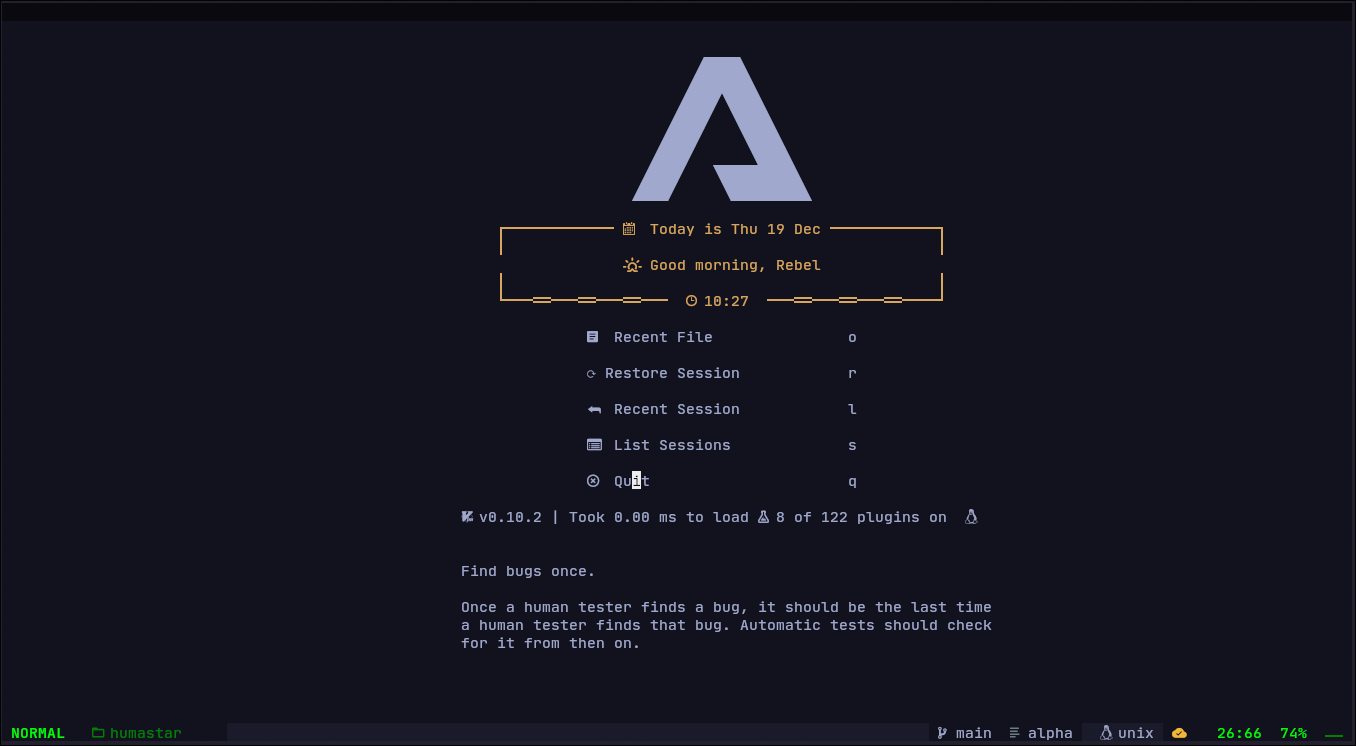
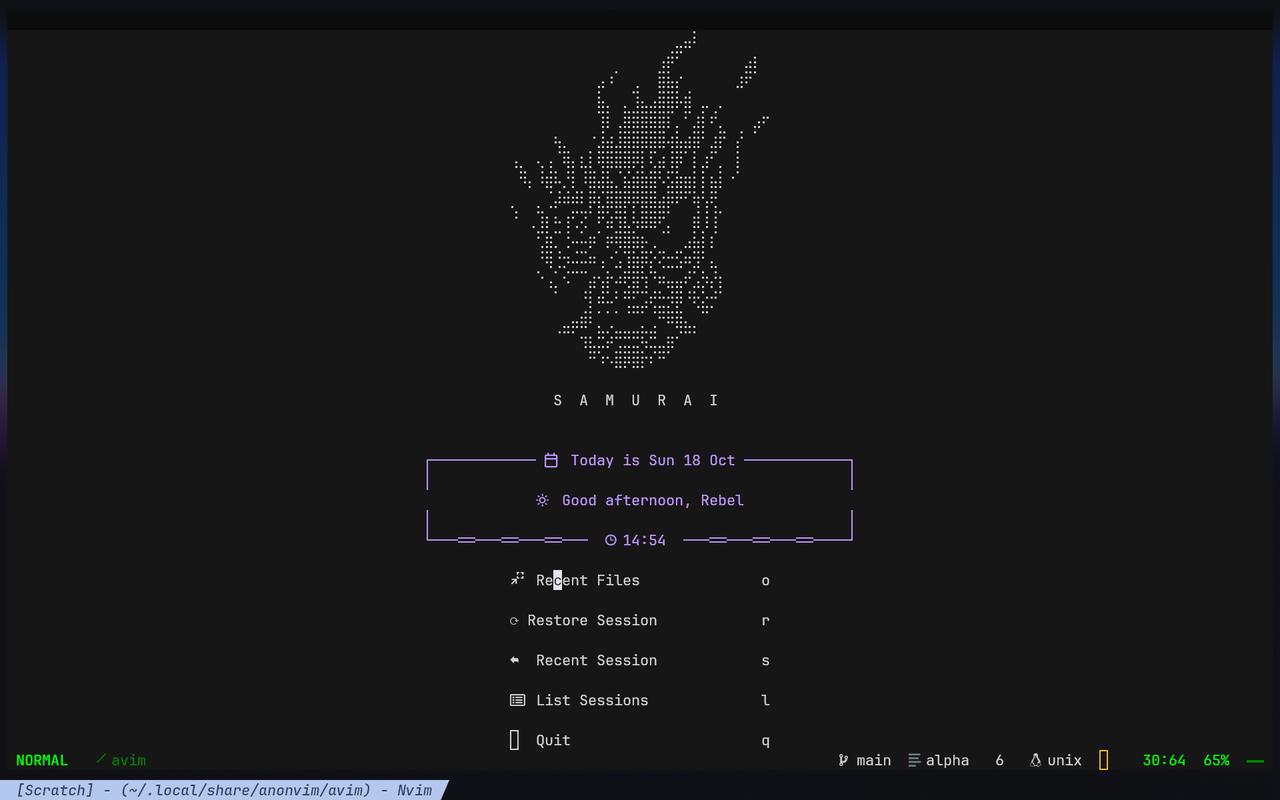
docs(images): refresh the gallery from the current config
Re-captured all eight screenshots (dashboard, dashboard_alt, neotree,
keymaps, search_and_replace, themes, terminal, database) at 1280x800, and
the README patch section now describes the reverse-then-reapply flow.

diff --git a/README.md b/README.md
@@ -151,8 +151,11 @@ The build fails loudly if the resolved Neovim is older than the required 0.12.
 ### Plugin patches
 
 Some plugins carry local fixes that upstream has not adopted. Rather than editing the plugin in place — which is lost on
-the next update — each fix lives as a patch in `patches/` and is reapplied by a lazy.nvim `build` hook
-(`lua/avim/utilities/patch.lua`) on every install and update.
+the next update — each fix lives as a patch in `patches/`, applied by `lua/avim/utilities/patch.lua`.
+
+lazy.nvim checks a plugin out with `git checkout`, which refuses to run while a tracked file has local changes, so every
+patch is reversed before lazy installs, updates or restores and re-applied once the operation finishes. A `build` hook
+re-applies it for fresh clones, so a plugin is never left unpatched after `:Lazy sync`.
 
 Patching is idempotent, and a patch that no longer applies is **refused** with an error rather than written as conflict
 markers, since a Lua file containing `<<<<<<<` would break startup far from the cause. If you see such an error, the
